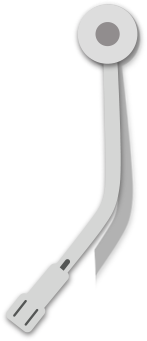
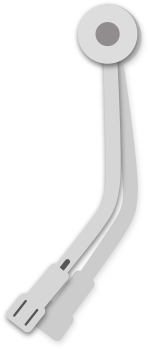
改版，点播进度条控制

diff --git a/src/App.vue b/src/App.vue
@@ -99,16 +99,22 @@
     <div class="g-play">
         <!-- <span class="m-voice"></span> -->
         <!-- <vue-slider v-model="options.value" v-bind="options"></vue-slider> -->
-        <wvoice v-show="isPlay"></wvoice>
+        <!-- <wvoice v-show="isPlay"></wvoice> -->
         <!-- <span class="m-time">
             {{dateSrc | formdate}}  {{timeSrc}}    
         </span> -->
         <span class="m-time playWrap" @click="playOrPause">
-            <i v-if="isPlay" class="icon-playBtn" title="播放"></i>
-            <i v-else class="icon-pauseBtn" title="暂停"></i>
+            <i v-if="isPlay" class="iconBtn iconPlay" title="播放"></i>
+            <i v-else class="iconBtn iconPaused" title="暂停"></i>
         </span>
+        <div class="progress" v-if="totalTime > 60">
+            <vue-slider @drag-end="setSeek" class="vo-slide" v-model="progressoptions.value" v-bind="progressoptions"></vue-slider>
+            <span class="currentTime">{{format(currentTime)}}</span>
+            <span class="totalTime">{{format(totalTime)}}</span>
+            <!-- <span>{{percent}}</span> -->
+        </div>
         <div class="volume" @mouseenter="isShowSlide = true" @mouseleave="isShowSlide = false">
-            <vue-slider v-if="isShowSlide"  class="vo-slide" v-model="options.value" v-bind="options"></vue-slider>
+            <vue-slider   class="vo-slide" v-model="options.value" v-bind="options"></vue-slider>
         </div>
     </div>
     <div class="audio">
@@ -178,10 +184,12 @@ export default {
         activeItemIndex:0,//点击节目索引
         isShowSlide:false,//是否显示音量组件
         isPlay:true, // 正在播放
+        currentTime:0,//当前播放时间
+        totalTime:0,//总播放时间
         options:{
             value: 80,// 值
             width: 4,// 组件宽度
-            height: 150,// 组件高度
+            height: 80,// 组件高度
             direction: "vertical",// 组件方向
             dotSize: 18,// 滑块大小
             eventType: "auto",// 事件类型
@@ -193,6 +201,48 @@ export default {
             realTime: false,// 是否实时计算组件布局
             tooltip: "always",// 是否显示工具提示
             clickable: true,// 是否可点击的
+            tooltipDir: "right",// 工具提示方向
+            piecewise: false,// 是否显示分段样式
+            lazy: false,// 是否在拖拽结束后同步值
+            reverse: false,// 是否反向组件
+            speed: 0.5,// 动画速度
+            formatter: null,// 格式化tooltip的值
+            bgStyle: {
+                backgroundColor:'#9ca3a8'
+            },// 组件背景样式
+            sliderStyle: {
+                // backgroundColor:'#1ba2ff',
+                width:'30px',
+                height:'15px',
+                borderRadius:'0',
+                background: '-webkit-linear-gradient(#474945, #050505)', /* Safari 5.1 - 6.0 */
+                background: '-o-linear-gradient(#474945, #050505)', /* Opera 11.1 - 12.0 */
+                background: '-moz-linear-gradient(#474945, #050505)', /* Firefox 3.6 - 15 */
+                background: 'linear-gradient(#474945, #050505)' 
+            },// 滑块样式
+            tooltipStyle: {
+                backgroundColor:'#1ba2ff'
+            },// 工具提示样式
+            processStyle: {
+                backgroundColor:'#00b6d3'
+            },// 进度条样式
+            piecewiseStyle: null,// 分割点的样式
+        },
+        progressoptions:{
+            value: 0,// 值
+            width: 300,// 组件宽度
+            height: 4,// 组件高度
+            direction: "horizontal",// 组件方向
+            dotSize: 18,// 滑块大小
+            eventType: "auto",// 事件类型
+            min: 0,// 最小值
+            max: 100,// 最大值
+            interval: 1,// 分段间隔
+            disabled: false,// 是否不可用
+            show: true,// 是否显示组件
+            realTime: false,// 是否实时计算组件布局
+            tooltip: "no",// 是否显示工具提示
+            clickable: true,// 是否可点击的
             tooltipDir: "top",// 工具提示方向
             piecewise: false,// 是否显示分段样式
             lazy: false,// 是否在拖拽结束后同步值
@@ -200,16 +250,16 @@ export default {
             speed: 0.5,// 动画速度
             formatter: null,// 格式化tooltip的值
             bgStyle: {
-                backgroundColor:'#ccc'
+                backgroundColor:'#9ca3a8'
             },// 组件背景样式
             sliderStyle: {
-                backgroundColor:'#1ba2ff'
+                backgroundColor:'#f1ede3'
             },// 滑块样式
             tooltipStyle: {
                 backgroundColor:'#1ba2ff'
             },// 工具提示样式
             processStyle: {
-                backgroundColor:'#1ba2ff'
+                backgroundColor:'#00b6d3'
             },// 进度条样式
             piecewiseStyle: null,// 分割点的样式
         }
@@ -249,7 +299,14 @@ export default {
   mounted(){
     // var player = videojs('example-video');
     // player.play();
-    
+    // this.currentTime = timeHandler()
+    var _this = this;
+    // loadedHandler()
+    setInterval(function(){
+        _this.currentTime = _currenttime()
+        _this.totalTime = _totaltime()
+    },1000)
+
   },
   watch:{
     year(){
@@ -269,6 +326,11 @@ export default {
             CKobject.getObjectById('ck-video').changeVolume(this.options.value)
         },
         deep: true
+    },
+    currentTime(){
+        let per = this.currentTime / this.totalTime;
+        this.progressoptions.value = per * 100
+        this.$set(this.progressoptions,'value',per * 100)
     }
   },
   computed:{
@@ -319,7 +381,7 @@ export default {
     },
     listIndex() {
         return this.top / 40 
-    }
+    },
   },
   methods:{
     slideList(index) {
@@ -465,6 +527,31 @@ export default {
             this.isPlay = true;
             CKobject.getObjectById('ck-video').videoPlay();
         }
+    },
+    format(interval) {
+        interval = interval | 0
+        const hour = interval / 3600 | 0
+        const minute = this._pad(interval / 60 % 60 | 0)
+        const second = this._pad(interval % 60)
+        if(hour > 0){
+           return `${hour}:${minute}:${second}` 
+       }else{
+           return `${minute}:${second}`
+       }
+    },
+    _pad(num, n = 2) {
+        let len = num.toString().length
+        while (len < n) {
+          num = '0' + num
+          len++
+        }
+        return num
+    },
+    setSeek(e){
+        
+        let per = this.progressoptions.value / 100
+        console.log(this.totalTime * per)
+        setSeek(parseInt(this.totalTime * per))
     }
   }
 }
@@ -485,6 +572,19 @@ export default {
         transform rotate(-20deg)
 body
     background #f8f8f8
+.playWrap
+    display inline-block
+    overflow hidden
+    .iconBtn
+        display inline-block
+        width 69px
+        height 69px
+        &.iconPaused 
+            background url('./imgs/playBtn.png') center center no-repeat
+            background-size cover
+        &.iconPlay
+            background url('./imgs/pausedBtn.png') center center no-repeat
+            background-size cover
 #app
     position: absolute
     top 0
@@ -567,7 +667,7 @@ body
             min-width 1080px           
             background url('./imgs/bg.png') center center no-repeat
             backgorund-size cover
-            background-color #f8f8f8
+            background-color #b9e7db
             .m-daylist
                 position: absolute
                 left 100px
@@ -664,7 +764,7 @@ body
                         height 40px
                         top 0
                         opacity: 0.75
-                        background #f8f8f8
+                        background #b9e7db
                     .item-ft
                         position: absolute
                         // z-index 1
@@ -672,7 +772,7 @@ body
                         bottom 0
                         height 40px
                         opacity 0.75
-                        background #f8f8f8
+                        background #b9e7db
                     .item-middle
                         position: absolute
                         top 120px
@@ -766,7 +866,7 @@ body
                     right -0.48rem
                     width 1.47rem
                     height 3.41rem
-                    transform-origin top right
+                    transform-origin  center top 
                     transform rotate(-4deg)
                     // animation armrotate 1s linear                     
                     background url('./imgs/tone-arm.png') center center no-repeat
@@ -776,9 +876,10 @@ body
     .g-play
         position: absolute
         z-index: 5
-        right 80px
+        left 50%
         bottom 40px
-        // min-width 200px
+        // min-width 400px
+        transform translateX(-50%)
         .m-voice
             display inline-block
             width 27px
@@ -786,9 +887,12 @@ body
             background url('./imgs/voice.png') center center no-repeat
             background-size cover
         .m-time
+            float left
             margin-left 10px
             font-size 14px
             color #666
+            cursor: pointer
+            margin-right 30px
             .icon-playBtn,.icon-pauseBtn
                 font-size 30px
                 color #1ba2ff
@@ -803,7 +907,7 @@ body
         .volume
             position: absolute
             right -50px
-            bottom -4px
+            bottom 25px
             width 46px
             height 50px
             background url('./imgs/volume.png') center bottom no-repeat
@@ -813,6 +917,20 @@ body
                 position: absolute
                 bottom 28px
                 left 10px
+        .progress
+            float left
+            width 300px
+            position: relative
+            top 20px
+            margin-left 10px
+            .currentTime
+                position: absolute
+                left 0
+                bottom -20px
+            .totalTime
+                position: absolute
+                right 0
+                bottom -20px
     .audio
         display none
 </style>

diff --git a/index.html b/index.html
@@ -71,6 +71,7 @@
     <script type="text/javascript" src="./static/videojs-contrib-hls.js"></script> -->
     <!-- flash 播放 -->
     <script type="text/javascript">
+        var currentTime, totalTime;
         function showPlayer(src) {
             //player
             var flashvars = {
@@ -80,7 +81,7 @@
                 s: 4,
                 p: 1,
                 loaded:'loadedHandler',
-                lv: 1,//注意，如果是直播，需设置lv:1
+                // lv: 1,//注意，如果是直播，需设置lv:1
             };
             var video = [src];
             CKobject.embed('static/ckplayer/ckplayer.swf', 'liveWrap', 'ck-video', '0', "0", false, flashvars, video);
@@ -88,6 +89,8 @@
         }
         function loadedHandler(){
             CKobject.getObjectById('ck-video').addListener('play','playHandler');
+            CKobject.getObjectById('ck-video').addListener('time','timeHandler');
+            CKobject.getObjectById('ck-video').addListener('totaltime','totaltimeHandler');
         }
         function playHandler(){
             CKobject.getObjectById('ck-video').removeListener('play','playHandler');
@@ -95,6 +98,21 @@
             setTimeout(function(){
                 $('.loading').css('display','none')
             },1000)
+        }
+        function setSeek(time){
+            CKobject.getObjectById('ck-video').videoSeek(time)
+        }
+        function timeHandler(time){
+            currentTime = (time)
+        }
+        function totaltimeHandler(totaltime){
+            totalTime = (totaltime)
+        }
+        function _currenttime(){
+            return currentTime;
+        }
+        function _totaltime(){
+            return (totalTime)
         }
     </script> 
   </body>
